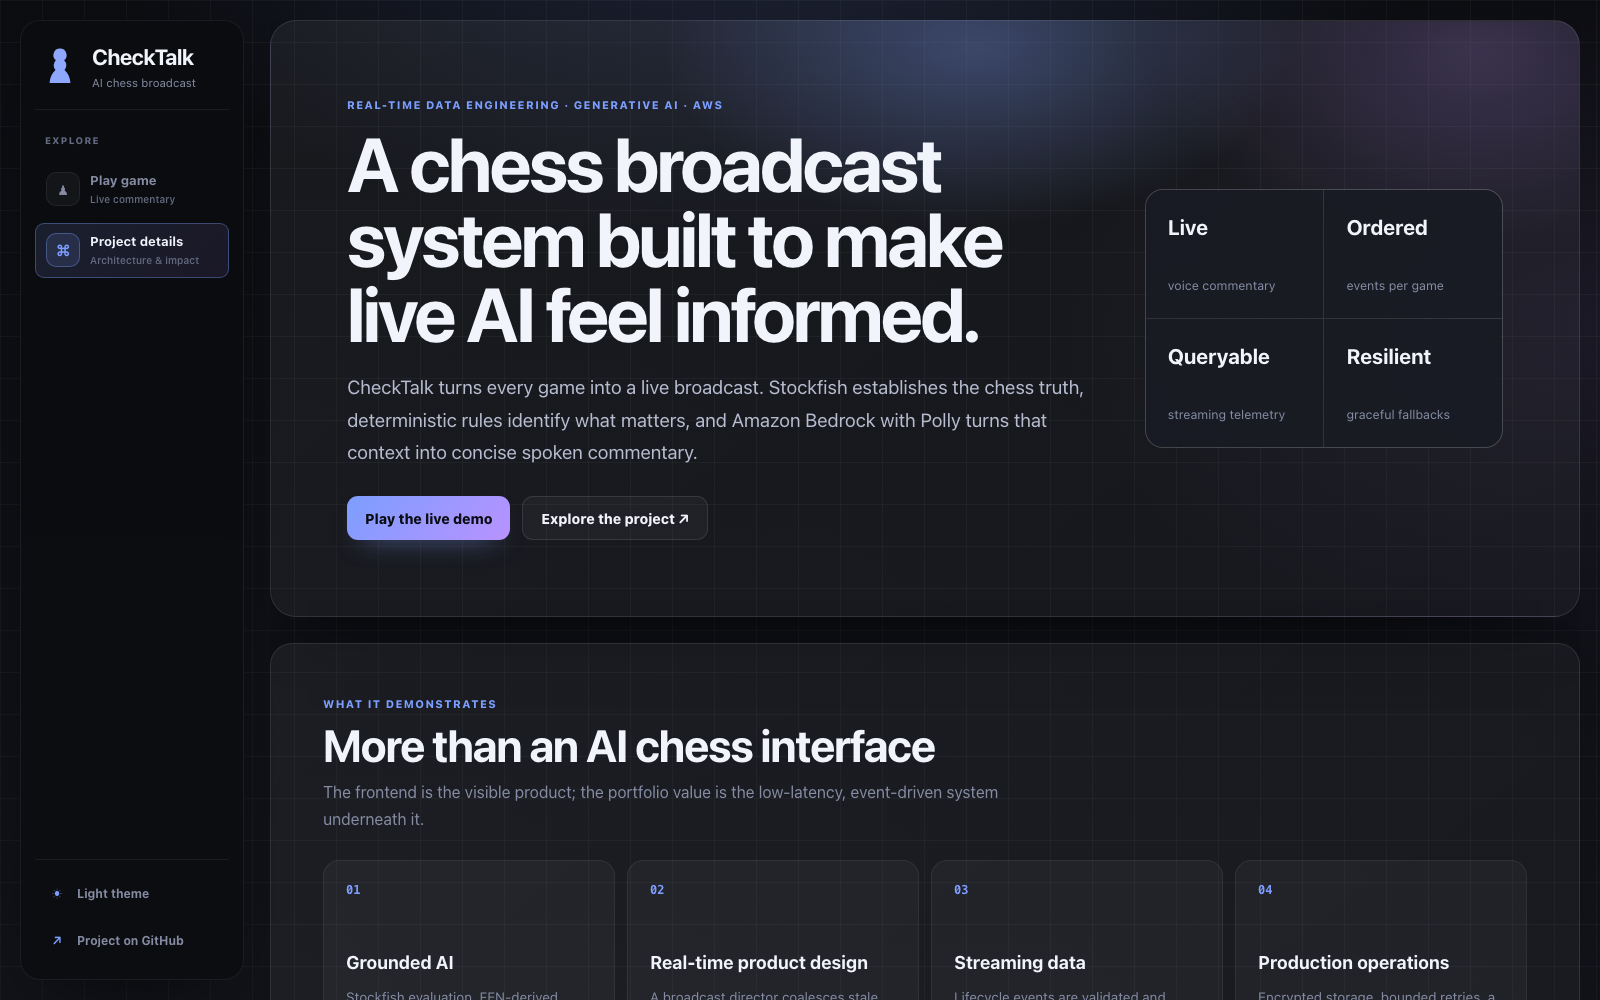
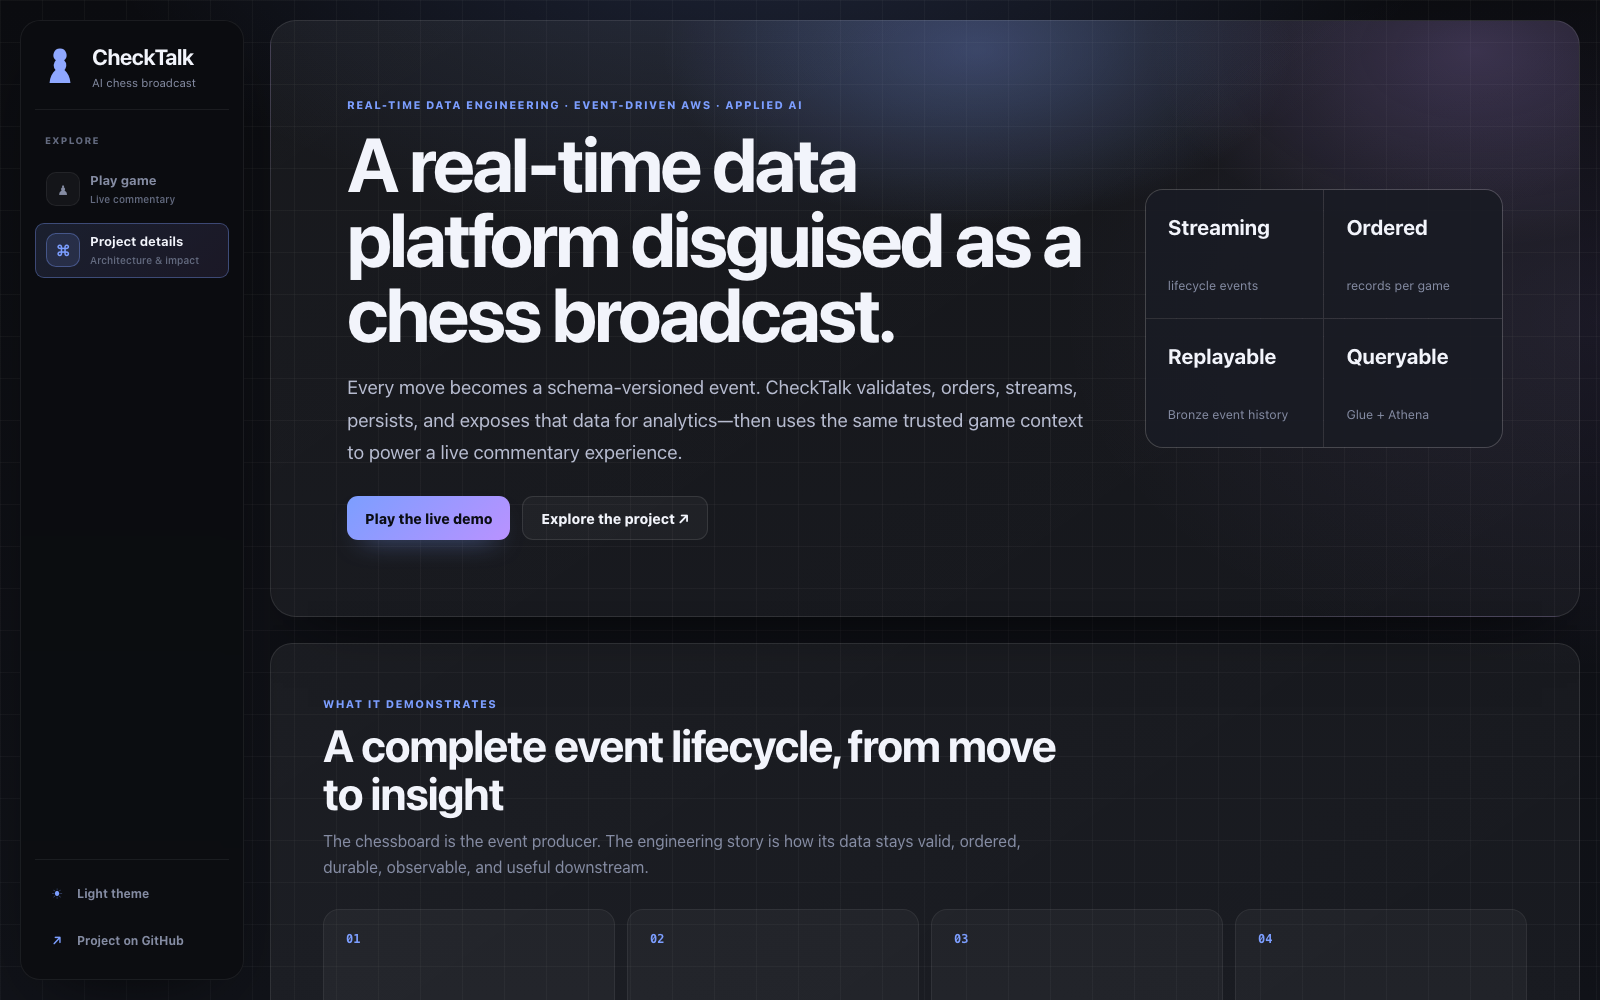
docs: frame CheckTalk as a data engineering platform

diff --git a/README.md b/README.md
@@ -1,117 +1,148 @@
 # CheckTalk
 
-### Live AI chess commentary backed by deterministic analysis and an event-driven AWS data platform
+### A real-time, event-driven data platform demonstrated through live chess
 
-[Play the live demo](https://checktalk.hakeshk.com) · [Read the in-app project story](https://checktalk.hakeshk.com/#project)
+[Explore the live data product](https://checktalk.hakeshk.com) · [Read the in-app engineering story](https://checktalk.hakeshk.com/#project)
 
-![CheckTalk gameplay with Stockfish, commentary controls, and voice profiles](screenshots/gameplay.png)
+![CheckTalk gameplay with Stockfish, live commentary, and configurable controls](screenshots/gameplay.png)
 
-## The project
+## The data engineering story
 
-CheckTalk turns a browser chess game into a live broadcast. A player faces Stockfish while the system identifies the opening, evaluates each move, tracks how both sides are playing, and delivers concise spoken commentary through three original voice profiles.
+CheckTalk treats a chess game as a stream of stateful business events. Every move, commentary response, and game transition produces structured data that must remain valid, ordered within its match, durable across failures, replayable for investigation, and queryable without slowing the player experience.
 
-The visible chess experience sits on top of a production-oriented system designed around two different latency requirements:
+The chess interface is the event producer and live demonstration. Underneath it is a serverless data platform that:
 
-- The **player path** returns grounded text and audio quickly enough to support a live game.
-- The **analytics path** captures ordered lifecycle events without delaying gameplay.
+1. Defines versioned event contracts with correlation identifiers.
+2. Validates and bounds records at ingestion.
+3. Preserves per-game order through partitioned streaming.
+4. Handles consumer failures without replaying successful records.
+5. Stores immutable raw events in an encrypted Bronze layer.
+6. Exposes the history through a cataloged, guardrailed query layer.
+7. Uses the trusted operational context to support a low-latency AI commentary experience.
 
-I designed and built the product end to end: interaction design, chess engine integration, commentary orchestration, generative AI grounding, voice delivery, event streaming, analytics storage, infrastructure, deployment, and observability.
+I designed and built the complete lifecycle: event modeling, ingestion, stream partitioning, fault-tolerant persistence, storage layout, metadata catalog, query controls, observability, infrastructure, deployment, and the product that generates the data.
 
-## Product experience
+## Why chess is a useful streaming domain
 
-- Play Stockfish at multiple difficulty levels and time controls.
-- Hear opening-aware, position-aware commentary for both players.
-- Choose Host, Strategist, or Storyteller delivery styles.
-- Keep commentary natural with queueing, stale-event coalescing, repetition controls, and deliberate pauses.
-- Switch board and application themes.
-- Review and replay the last three games from the current session.
-- Continue playing if AI commentary, speech, or telemetry becomes unavailable.
+A chess game creates the same constraints found in many production data systems:
 
-![CheckTalk project details page](screenshots/project-details.png)
+- **Ordering matters locally:** move 18 cannot be processed before move 17 within one game.
+- **Parallelism matters globally:** unrelated games should process independently.
+- **State evolves over time:** each event is meaningful in the context of prior events.
+- **Traffic is bursty:** rapid games produce events faster than classical games.
+- **Replay has value:** complete history supports game reconstruction, auditing, and new downstream consumers.
+- **The operational path cannot wait:** analytics latency or failure must never block gameplay.
 
-## Architecture
+## Data architecture
 
 ![CheckTalk production architecture](docs/architecture.svg)
 
-### Player and commentary path
+### Analytical data plane
 
 ```text
-Route 53 → CloudFront → private S3-hosted React application
-                              │
-                              ├─ Stockfish WASM evaluates locally
-                              │
-                              └─ API Gateway → Lambda → Bedrock + Polly
+Browser lifecycle events
+          ↓
+API Gateway → ingestion Lambda → Amazon Kinesis Data Streams
+                                      │
+                                      │ partition key = game_id
+                                      ↓
+                              persistence Lambda
+                                      ↓
+                    encrypted + versioned S3 Bronze
+                                      ↓
+                    AWS Glue Catalog → Amazon Athena
 ```
 
-Stockfish establishes the chess facts. A deterministic backend validates the request, recomputes the evaluation delta, classifies the move, and derives position context. Amazon Bedrock writes only the short broadcast line; Amazon Polly synthesizes its selected delivery profile.
+| Stage | Responsibility |
+| --- | --- |
+| Event producer | Emits schema version, event ID, game ID, timestamp, event type, and bounded payload. |
+| Ingestion | Rejects malformed or oversized records before they enter the stream. |
+| Streaming | Uses `game_id` as the Kinesis partition key to preserve match order while games scale independently. |
+| Processing | Uses partial batch responses, bounded retries, batch bisection, and an SQS dead-letter queue. |
+| Bronze storage | Retains encrypted, versioned source events partitioned by date, event type, and game. |
+| Discovery and query | Uses Glue partition projection and Athena with a 1 GiB per-query scan guardrail. |
 
-This separation keeps tactical judgement out of the language model and reduces confident but incorrect chess commentary.
-
-### Streaming and analytics path
+### Operational serving plane
 
 ```text
-Browser events → API Gateway → ingestion Lambda → Kinesis
-                                                   │ game_id partition key
-                                                   ↓
-                                         persistence Lambda
-                                                   ↓
-                                  encrypted, versioned S3 Bronze
-                                                   ↓
-                                        Glue Catalog + Athena
+React + Stockfish → API Gateway → Lambda → Bedrock + Polly
 ```
 
-Analytics is intentionally asynchronous. Events within a game remain ordered, separate games scale independently, failed records use bounded retries and a dead-letter queue, and the raw event history remains replayable and queryable.
+The synchronous path serves the live product, while the analytical path remains asynchronous. Both originate from the same game domain, but analytics backpressure cannot delay a move. Stockfish and deterministic classifiers establish the facts; AI is used only to turn trusted context into a concise spoken line.
+
+This is intentionally a data platform with an AI-powered serving use case—not an AI model presented as the system of record.
+
+## Data reliability and operability
+
+- Versioned schemas and correlation IDs make records traceable across services.
+- Per-game partitioning provides the required ordering boundary without global serialization.
+- Partial batch failure handling retries only unsuccessful Kinesis records.
+- Batch bisection and a dead-letter queue isolate poison records.
+- S3 encryption and versioning preserve a durable raw history.
+- Date, event-type, and game partitions reduce downstream scans.
+- Glue partition projection avoids manual partition-registration work.
+- Athena scan limits protect against unexpectedly expensive queries.
+- Structured logs, CloudWatch metrics, dashboards, and alarms expose pipeline health.
+- Fire-and-forget telemetry keeps data failures outside the gameplay critical path.
 
 ## Engineering decisions
 
-| Decision | Reason |
+| Decision | Data-engineering rationale |
 | --- | --- |
-| Stockfish decides; the model narrates | Preserves chess correctness while retaining expressive language. |
-| Finish active speech before switching topics | Avoids the unnatural mid-sentence cuts common in event-per-move audio. |
-| Coalesce stale normal moves | Keeps commentary near the current board position when play accelerates. |
-| Permit intentional pauses | Continuous filler became repetitive; a broadcast should know when silence is better. |
-| Keep analytics off the player path | Telemetry failure cannot block a move or commentary response. |
-| Use HTTP before WebSockets | Request/response is sufficient for a single-player experience; server push can wait for spectators or shared games. |
-| Use Athena instead of always-on analytics compute | Matches a portfolio-scale, bursty query workload with a low idle cost. |
+| Partition by `game_id` | Preserve order only where required and retain concurrency across games. |
+| Separate serving and analytics | Give each path its own latency, failure, and scaling behavior. |
+| Keep immutable Bronze events | Preserve source history for audit, replay, backfill, and future transformations. |
+| Validate before Kinesis | Prevent malformed payloads from becoming downstream operational debt. |
+| Use partial batch responses | Avoid duplicating successful writes when one record fails. |
+| Use Athena over always-on compute | Match a bursty portfolio-scale analytical workload with low idle cost. |
+| Use partition projection | Make new date/type partitions queryable without a crawler dependency. |
+| Treat AI as a consumer of facts | Keep domain correctness deterministic and independently testable. |
 
-## Reliability and production practices
+## What the data powers
 
-- Private S3 origin behind CloudFront, Route 53, ACM TLS, and security headers.
-- Strict API validation, bounded payloads, throttling, and explicit CORS.
-- Text fallback when speech synthesis or browser autoplay fails.
-- Structured logs, CloudWatch metrics, dashboards, and alarms.
-- Encrypted and versioned data storage with lifecycle policies.
-- Partial batch failure handling, retry bisection, and an SQS dead-letter queue.
-- GitHub OIDC deployment with short-lived AWS credentials rather than stored access keys.
-- Terraform-managed infrastructure with explicit production deployment review.
+The platform supports a polished live product while demonstrating that infrastructure through an understandable domain:
+
+- Opening-aware commentary grounded in Stockfish and deterministic position context.
+- Three original commentary delivery profiles.
+- Multiple time controls and engine difficulty levels.
+- Session history and replay for the latest three games.
+- Graceful degradation when commentary, speech, or telemetry is unavailable.
+- Dark/light application themes and configurable chessboard themes.
+
+![CheckTalk data-engineering project overview](screenshots/project-details.png)
 
 ## Verification
 
-- **39 backend unit tests** across commentary, opening recognition, position context, ingestion, and persistence.
+- **39 backend unit tests** across event ingestion, persistence, commentary classification, opening recognition, and position context.
+- Stream-ingestion tests for validation, partition keys, and accepted-record responses.
+- Persistence tests for S3 object layout and partial batch failures.
+- Production smoke checks covering ingestion, S3 persistence, Athena visibility, and dead-letter queue health.
 - Frontend static analysis and TypeScript production builds.
-- Terraform configuration validation.
-- Production smoke tests for each commentary profile and audio response.
-- Graceful-degradation checks for commentary, speech, and telemetry failures.
+- Terraform configuration validation and reproducible infrastructure.
+- Graceful-degradation checks that prove telemetry cannot block the player path.
 
 ## Technology
 
-**Frontend:** React, TypeScript, chess.js, Stockfish WASM, Vite  
-**AI and voice:** Amazon Bedrock, Amazon Nova Lite, Amazon Polly  
-**Backend:** Python, AWS Lambda, API Gateway  
-**Data:** Amazon Kinesis Data Streams, S3, AWS Glue, Athena  
-**Platform:** CloudFront, Route 53, ACM, CloudWatch, SQS, Terraform, GitHub Actions/OIDC
+- **Streaming and storage:** Amazon Kinesis Data Streams, S3, SQS
+- **Catalog and analytics:** AWS Glue, Amazon Athena
+- **Processing:** Python, AWS Lambda, API Gateway
+- **Operations:** CloudWatch, Terraform, GitHub Actions/OIDC
+- **Data-producing application:** React, TypeScript, chess.js, Stockfish WASM
+- **Applied AI serving layer:** Amazon Bedrock, Amazon Nova Lite, Amazon Polly
 
-## What I would build next
+## Next data-engineering iterations
 
-- Spectator mode with shared live games and server-pushed commentary.
-- Evaluation and latency dashboards built from production telemetry.
-- Human-versus-human rooms and authenticated cross-device game history.
-- Automated commentary quality evaluation for chess accuracy, repetition, and timing.
+- Add automated schema compatibility checks and a quarantine path for invalid records.
+- Transform JSON Bronze events into partitioned Parquet datasets for a curated Silver layer.
+- Build replay and backfill tooling from immutable source events.
+- Add data-quality SLAs for freshness, completeness, duplicates, and ordering.
+- Publish operational and product metrics through an Athena-backed dashboard.
+- Load-test multiple game partitions and tune shard capacity from measured throughput.
 
 ## Repository scope
 
-This public repository is an intentionally focused project showcase. It contains product screenshots and system-design documentation, but not the deployable application source, production infrastructure, environment configuration, or operational runbooks. The complete implementation is maintained privately and can be walked through during an interview.
+This public repository is an intentionally focused engineering showcase. It contains product screenshots and system-design documentation, but not deployable application source, production infrastructure, environment configuration, or operational runbooks. The complete implementation is maintained privately and can be walked through during an interview.
 
 ---
 
-Built by [Hakesh Kumar](https://github.com/HakeshKumar). The live application is available at [checktalk.hakeshk.com](https://checktalk.hakeshk.com).
+Built by [Hakesh Kumar](https://github.com/HakeshKumar). The live system is available at [checktalk.hakeshk.com](https://checktalk.hakeshk.com).
